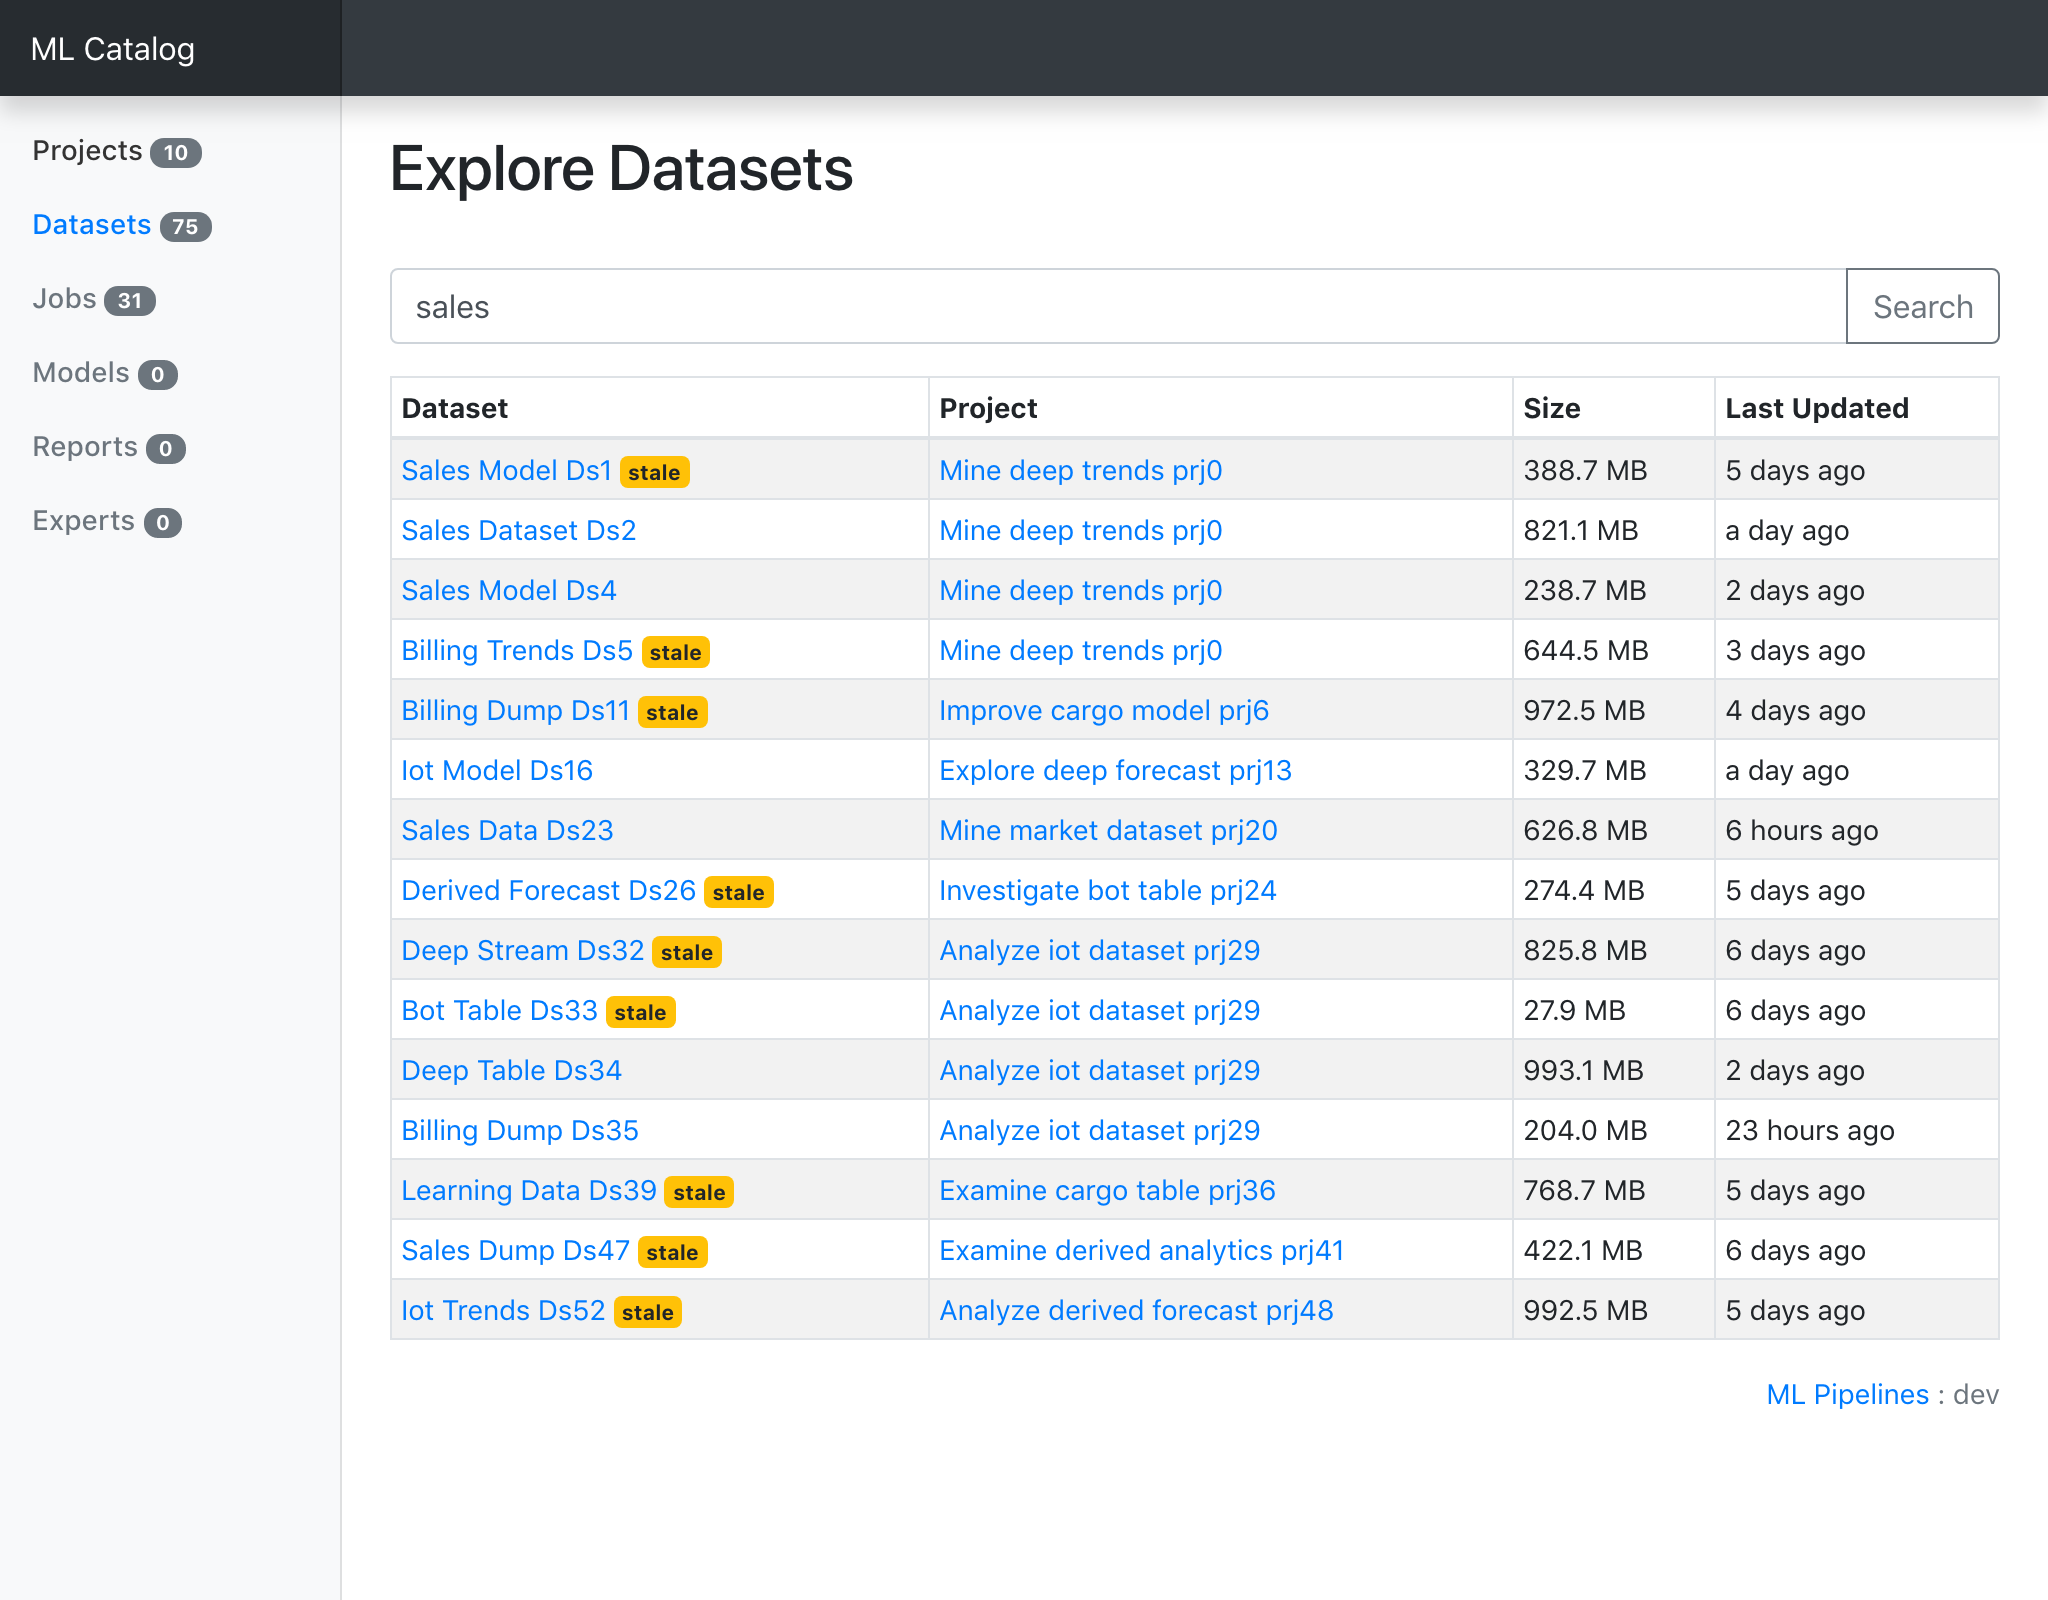
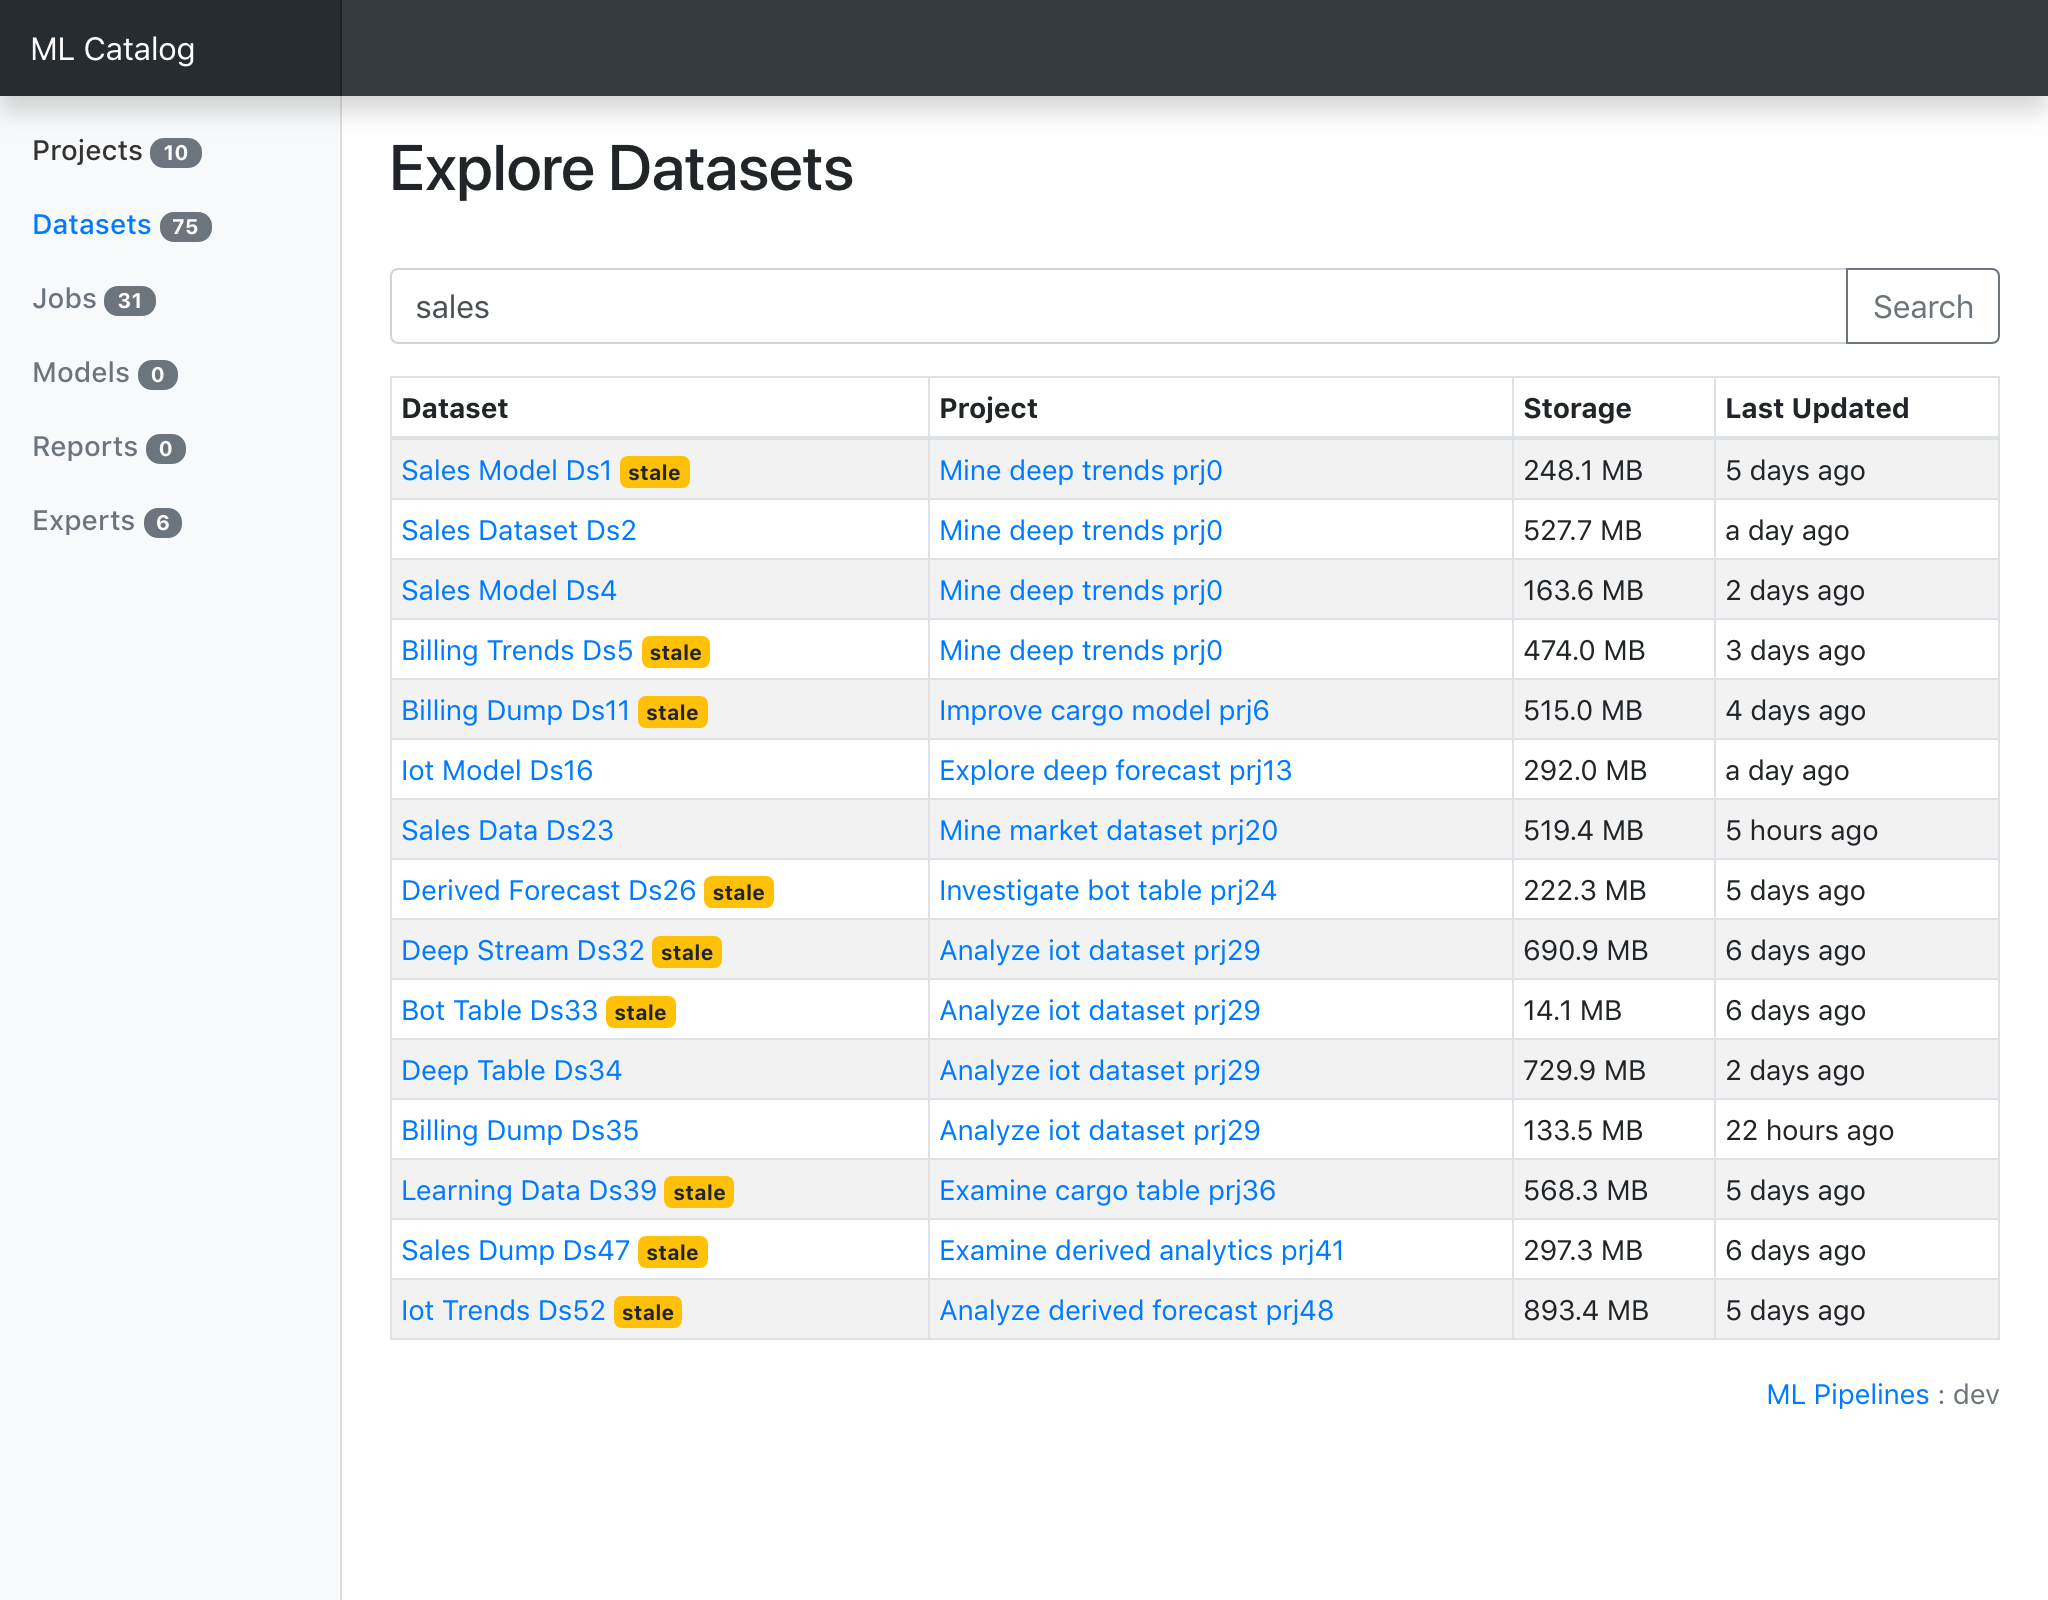
Update screenshots and import

Changed region(s): [[0.75, 0.25, 0.8125, 0.5625], [0.75, 0.625, 0.8125, 0.75], [0.75, 0.8125, 0.8125, 0.8438]]

diff --git a/mlp/explore/management/commands/import.py b/mlp/explore/management/commands/import.py
@@ -9,7 +9,7 @@ from explore import demo
 from proto import events_pb2 as evt
 import random
 import json
-
+import os
 random.seed(1)
 
 
@@ -24,6 +24,8 @@ class Command(BaseCommand):
         with lmdb.open(settings.LMDB, subdir=False) as env:
             main = env.open_db()
             file_name = options['json']
+
+            folder = os.path.dirname(file_name)
             print(file_name)
             with open(file_name, 'r') as f:
                 meta = json.load(f)
@@ -56,6 +58,8 @@ class Command(BaseCommand):
                         )
 
 
+
+
                         mtd.set_fields.extend([
                             evt.FIELD_UPDATE_TIMESTAMP,
                             evt.FIELD_RECORD_COUNT,
@@ -72,6 +76,15 @@ class Command(BaseCommand):
                         if 'storage_location' in i:
                             mtd.storage_location = i['storage_location']
                             mtd.set_fields.append(evt.FIELD_STORAGE_LOCATION)
+
+                        description = os.path.join(folder, dataset_id + ".md")
+                        if os.path.exists(description):
+                            print(f"Import {description}")
+                            with open(description, 'r') as f:
+                                mtd.description = "\n".join(f.readlines())
+                                mtd.set_fields.append(evt.FIELD_DESCRIPTION)
+
+
 
 
 
